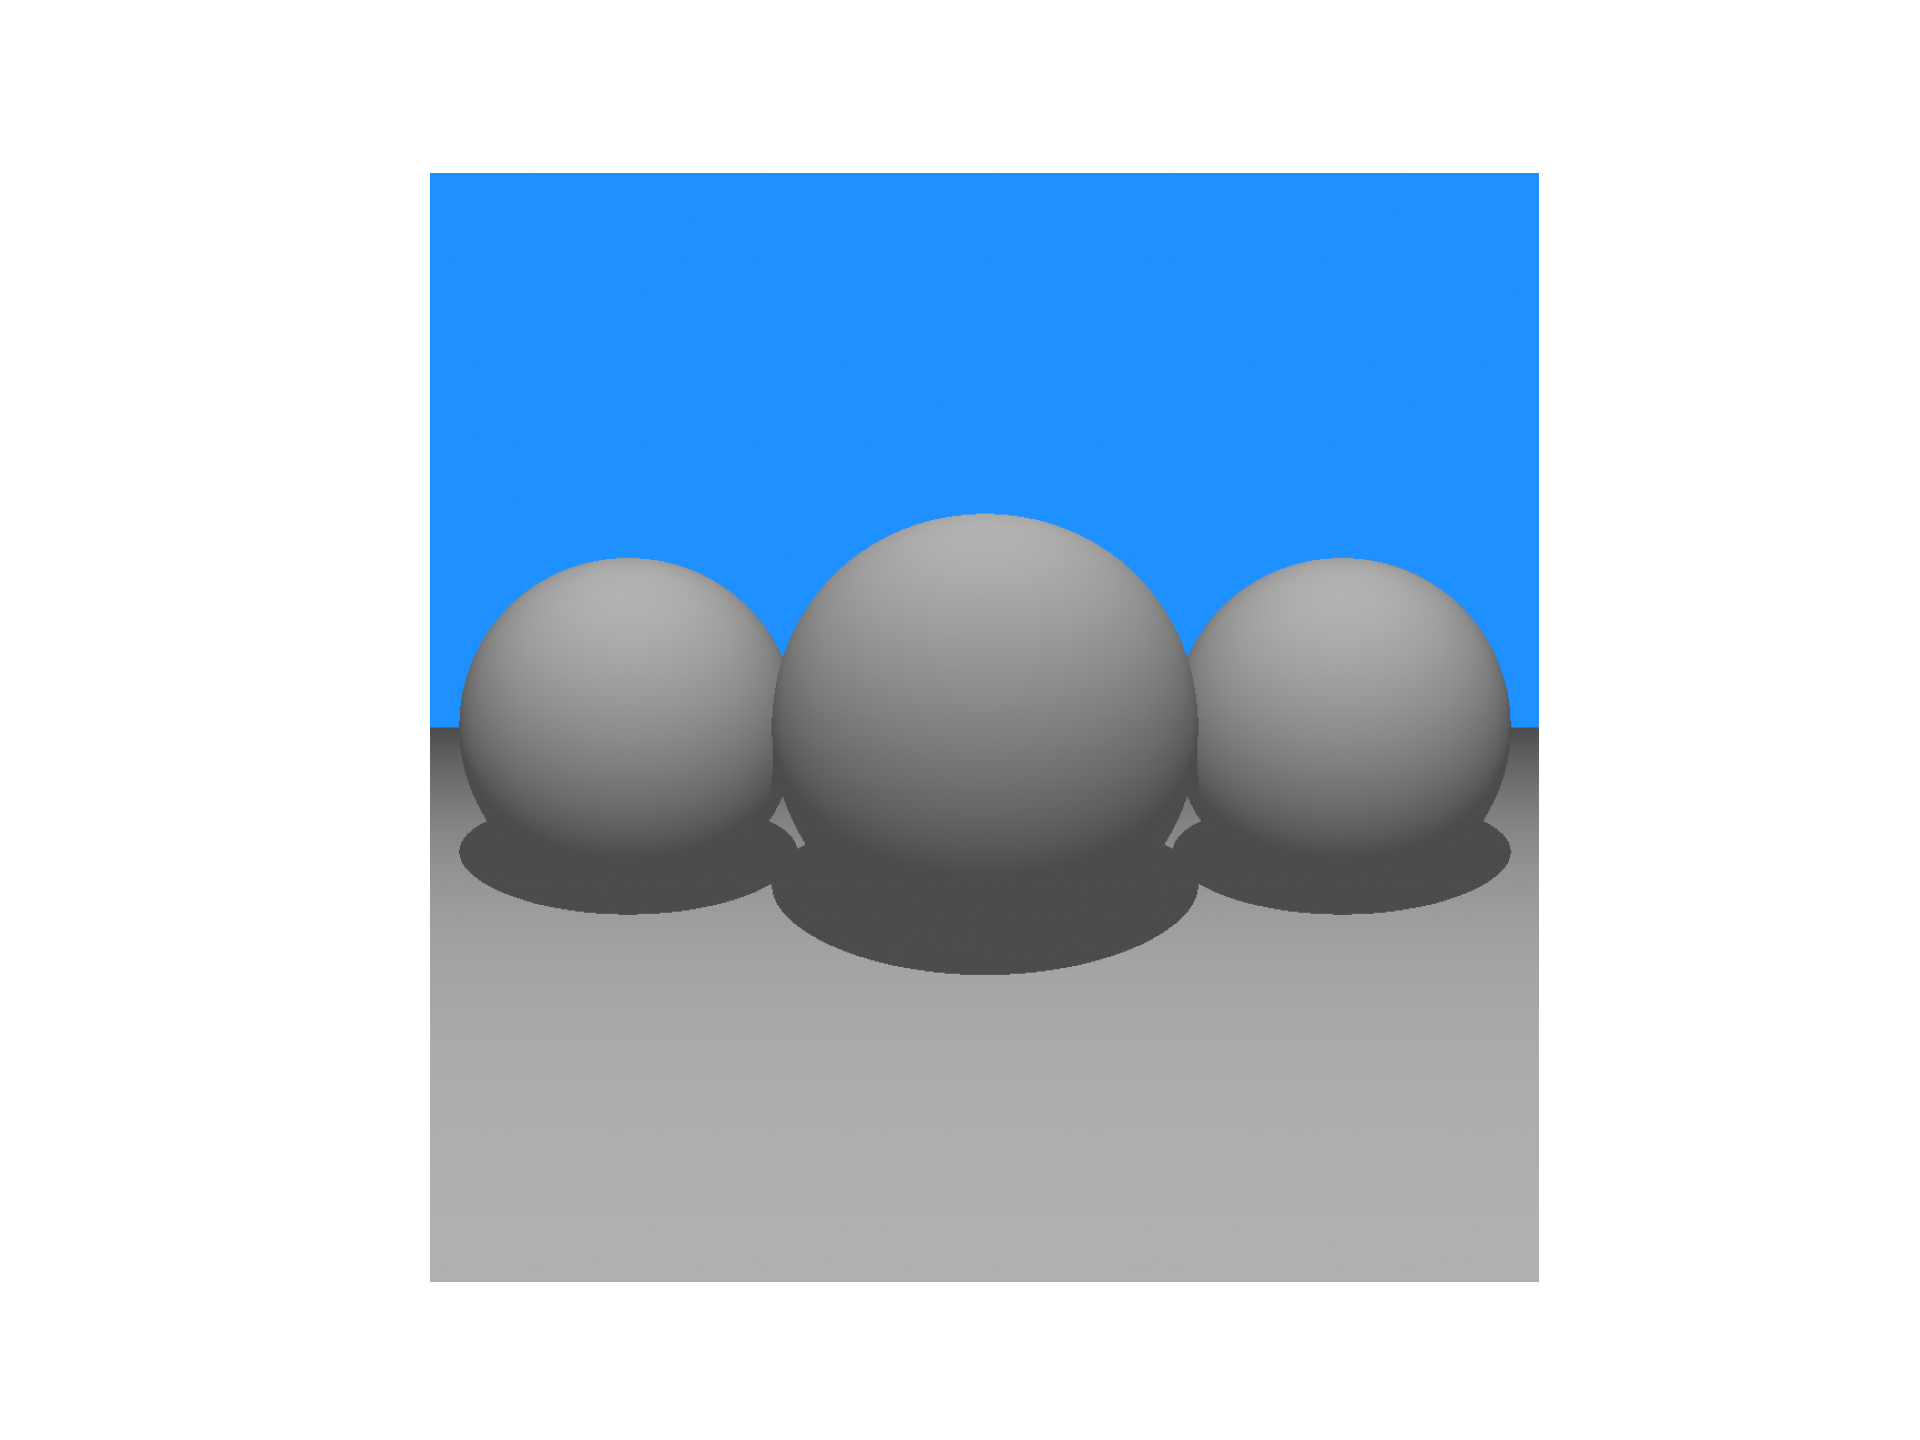
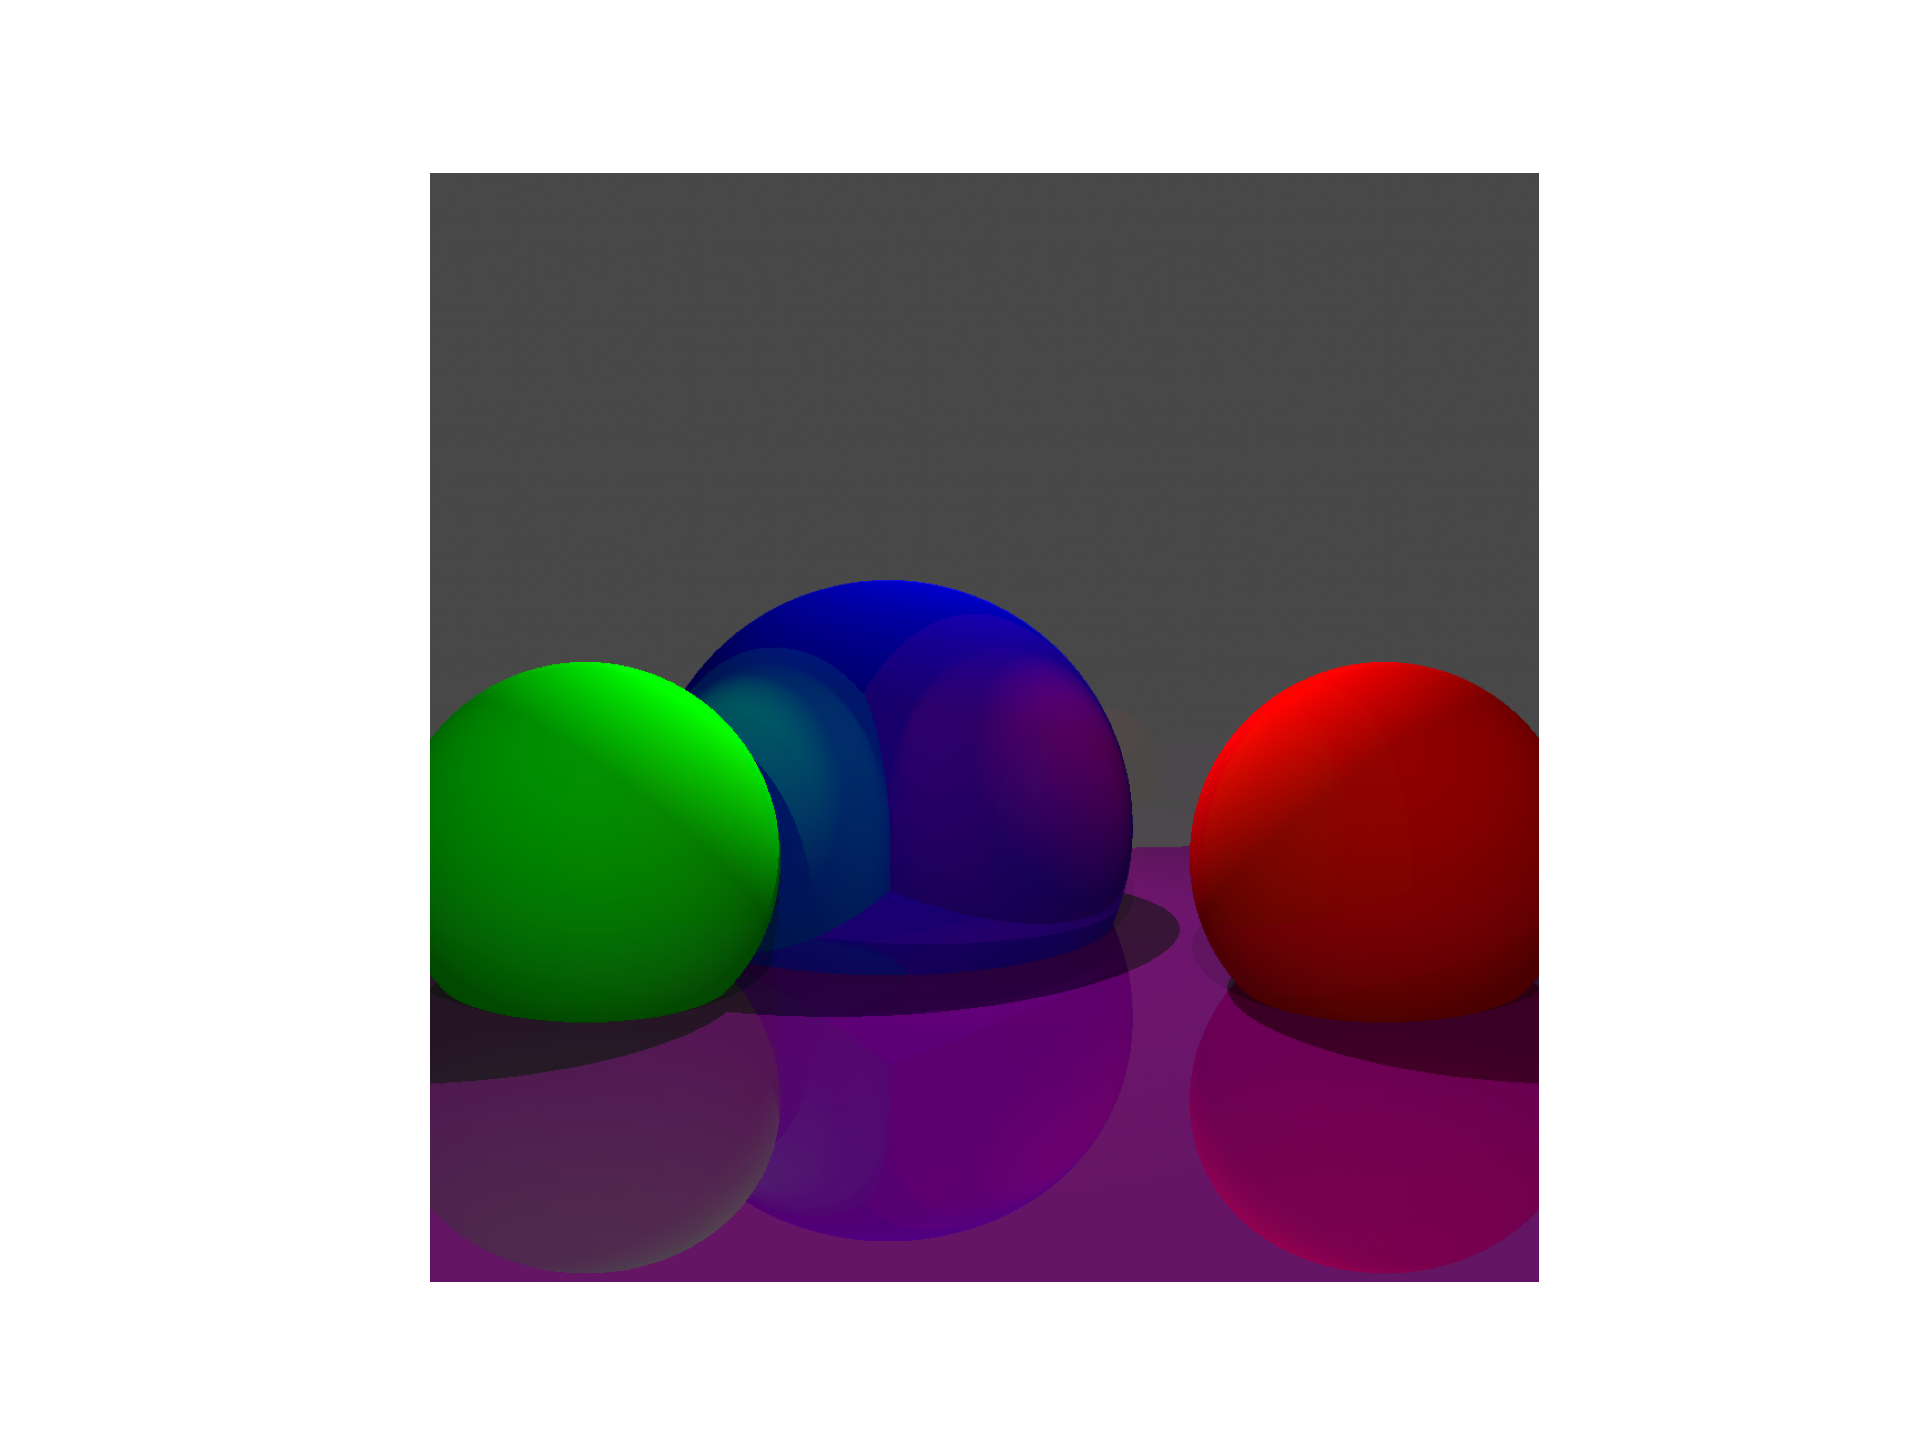
reflection

diff --git a/render/scene.cpp b/render/scene.cpp
@@ -32,12 +32,12 @@ Ray Camera::calculate_ray(unsigned x, unsigned y) {
         Vec3 point(cos(beta) * sin(alpha), cos(beta) * cos(alpha), sin(beta));
         Vec3 screen_point = point + position;
         Vec3 direction(rotate * point);
-        return Ray(position, direction.normalized(), x, y);
+        return Ray(position, direction.normalized(), x, y, 1);
     } else {
         Vec3 point(2 * tan(FOV_X / 2) * (x * 1.0 / X - 0.5), 1, 2 * tan(FOV_Y / 2) * (y * 1.0 / Y - 0.5));
         Vec3 screen_point = point + position;
         Vec3 direction(rotate * point);
-        return Ray(position, direction.normalized(), x, y);
+        return Ray(position, direction.normalized(), x, y, 1);
     }
 }
 
@@ -207,26 +207,34 @@ double Scene::full_intensity_in_point(SmartPoint smartpoint, std::vector<Figure*
     return ret;
 }
 
-void Scene::trace_ray(Ray ray) {
-    double r = 30; double b = 255; double g = 144; //set background color
+Ray reflected_ray(SmartPoint smartpoint, Ray incident) {
+    Vec3 direction = incident.dir - 2 * smartpoint.normal * dot(smartpoint.normal, incident.dir);
+    return Ray(smartpoint.point, direction, incident.x, incident.y, incident.intensity * smartpoint.material.t_reflection);
+}
 
+// Ray refacted_ray(SmartPoint smartpoint, Ray incident) {
+//     
+//     
+// }
+
+void Scene::trace_ray(Ray ray) {
+    if (ray.intensity < STOP_INTENSITY) return;
     SmartPoint intersetion_SmartPoint = get_first_SmartPoint(ray);
     if (intersetion_SmartPoint.valid) {
-
         Color color = intersetion_SmartPoint.color;
-        double light = full_intensity_in_point(intersetion_SmartPoint, &figures);
-        // printf("%lf %lf %lf\n", ray.pos.x, ray.pos.y, ray.pos.z);
+        double light = full_intensity_in_point(intersetion_SmartPoint, &figures); 
 
-        r = light * color.r;
-        g = light * color.g;
-        b = light * color.b;
+        double r = res[ray.x][ray.y].r + ray.intensity * intersetion_SmartPoint.material.t_diffusion * light * color.r;
+        double g = res[ray.x][ray.y].g + ray.intensity * intersetion_SmartPoint.material.t_diffusion * light * color.g;
+        double b = res[ray.x][ray.y].b + ray.intensity * intersetion_SmartPoint.material.t_diffusion * light * color.b;
 
         if (r > 255) r = 255;
         if (g > 255) g = 255;
         if (b > 255) b = 255;
+        res[ray.x][ray.y] = Color(r, g, b);
         
+        trace_ray(reflected_ray(intersetion_SmartPoint, ray));
     }
-    res[ray.x][ray.y] = Color(r, g, b);
 }
 
 void Scene::render() {

diff --git a/render/figures.cpp b/render/figures.cpp
@@ -139,6 +139,7 @@ Object* BeautifulSphere::clone(std::vector<std::string> const &arg) {
     rez->position =  Vec3(atof(arg[0].c_str()),atof(arg[1].c_str()),atof(arg[2].c_str()));
     rez->radius = atof(arg[3].c_str());
     if (arg.size() >= 5) rez->color = Color(arg[4]);
+    if (arg.size() >= 6) rez->material = Material(arg[5]);
     return rez;
 }
 
@@ -181,6 +182,7 @@ Object* BeautifulPlane::clone(std::vector<std::string> const &arg) {
     rez->normal =  Vec3(atof(arg[0].c_str()),atof(arg[1].c_str()),atof(arg[2].c_str())).normalized();
     rez->d = atof(arg[3].c_str());
     if (arg.size() >= 5) rez->color = Color(arg[4]);
+    if (arg.size() >= 6) rez->material = Material(arg[5]);
     return rez;
 }
 

diff --git a/render/linal/linal.cpp b/render/linal/linal.cpp
@@ -75,8 +75,8 @@ Ray::Ray(Vec3 pos, Vec3 dir):
 Ray::Ray(Vec3 pos, Vec3 dir, unsigned x, unsigned y):
      pos(pos), dir(dir), x(x), y(y) { }
 
-Ray::Ray(Vec3 pos, Vec3 dir, unsigned x, unsigned y, Color color):
-     pos(pos), dir(dir), x(x), y(y), color(color) { }
+Ray::Ray(Vec3 pos, Vec3 dir, unsigned x, unsigned y, double intensity):
+     pos(pos), dir(dir), x(x), y(y), intensity(intensity) { }
 
 
 // --------------------------------------------- Matr3 ---------------------------------------------

diff --git a/render/linal/linal.h b/render/linal/linal.h
@@ -42,11 +42,10 @@ public:
     // direction
     Vec3 dir;
     int x, y; 
-    // Интенсивности по цветам
-    Color color = Color(255, 255, 255);
+    double intensity = 1;
     Ray(Vec3 pos, Vec3 dir);
     Ray(Vec3 pos, Vec3 dir, unsigned x, unsigned y);
-    Ray(Vec3 pos, Vec3 dir, unsigned x, unsigned y, Color color);
+    Ray(Vec3 pos, Vec3 dir, unsigned x, unsigned y, double intensity);
 };
 
 class Matr3 {

diff --git a/render/material/material.cpp b/render/material/material.cpp
@@ -16,9 +16,9 @@ Material::Material(std::string name, double n): n(n) {
         t_diffusion = 0.95;
     }
     if (name == "metall") {
-        t_reflection = 0.2;
+        t_reflection = 0.3;
         t_refraction = 0;
-        t_diffusion = 0.8;
+        t_diffusion = 0.7;
     }
     if (name == "glass") {
         t_reflection = 0.1;

diff --git a/render/scene.h b/render/scene.h
@@ -20,6 +20,7 @@
 #include <stdlib.h>
 
 #include "linal/linal.h"
+#include "constants.h"
 #include <vector>
 #include "math.h"
 

diff --git a/render/constants.h b/render/constants.h
@@ -1,3 +1,4 @@
 #define INFTY 1e8
 #define ZERO 1e-8
 #define DIFFUSION_COEFF 1e-3
+#define STOP_INTENSITY 0.01
